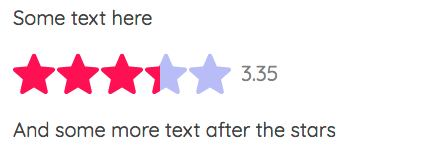
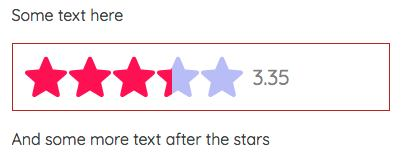
add style prop for styling the main div

diff --git a/src/StarRating.svelte b/src/StarRating.svelte
@@ -3,6 +3,7 @@
   import Star from './Star.svelte';
   export let id = '000';
   export let rating;
+  export let style = '';
   // TODO check if rating prop is number and between 0 and 5
   // if (!isNumber(rating) || rating < 0 || rating > 5) throw new Error('mal');
   export let config = {};
@@ -35,7 +36,7 @@
   }
 </style>
 
-<div>
+<div {style}>
   {#each stars as star}
     <Star {id} full={star} {config} />
   {/each}

diff --git a/README.md b/README.md
@@ -31,6 +31,7 @@ The component takes a number of props:
 | rating | Number | -       | Yes      | The rating. Any number from 0 to 5.0                          |
 | id     | String | '000'   | No       | Not needed for a single instance. Read below for more details |
 | config | Object | {}      | No       | Config options for the component. See below                   |
+| style  | String | -       | No       | CSS styles passed directly to the container component         |
 
 **About the id**: It is not needed for a single instace of the component. If the component appears more than once in the page, you **need** to pass a unique id each time for it to work properly.
 
@@ -42,6 +43,8 @@ The component takes a number of props:
 | emptyColor | String  | '#7f7f7f' | The color for the empty parts of the stars      |
 | size       | Number  | 20        | The size of the stars. Pass a number of pixels. |
 | showText   | Boolean | false     | Show the rating number next to the stars or not |
+
+**About the style prop**: It accepts a string of css styles, written as inline-css. It is passed directly, unchecked, to the main `div` as inline-css. Use it cautiously.
 
 ### Be aware
 
@@ -82,9 +85,10 @@ Output:
     size: 42,
     showText: true,
   };
+  const style = 'border: 1px solid firebrick;padding: 12px;';
 </script>
 
-<StarRating {id} {rating} {config} />
+<StarRating {id} {rating} {config} {style} />
 ```
 
 Output:

diff --git a/CHANGELOG.md b/CHANGELOG.md
@@ -4,11 +4,11 @@ All notable changes to this project will be documented in this file.
 
 The format is based on [Keep a Changelog](https://keepachangelog.com/en/1.0.0/), and this project adheres to [Semantic Versioning](https://semver.org/spec/v2.0.0.html).
 
-## Unreleased
+## [1.1.0] - 2020-06-16
 
 ### Added
 
-- Config option to pass `css` styles directly to the component.
+- `style` config option to pass `css` styles directly to the component.
 
 ## [1.0.0] - 2020-06-11
 
